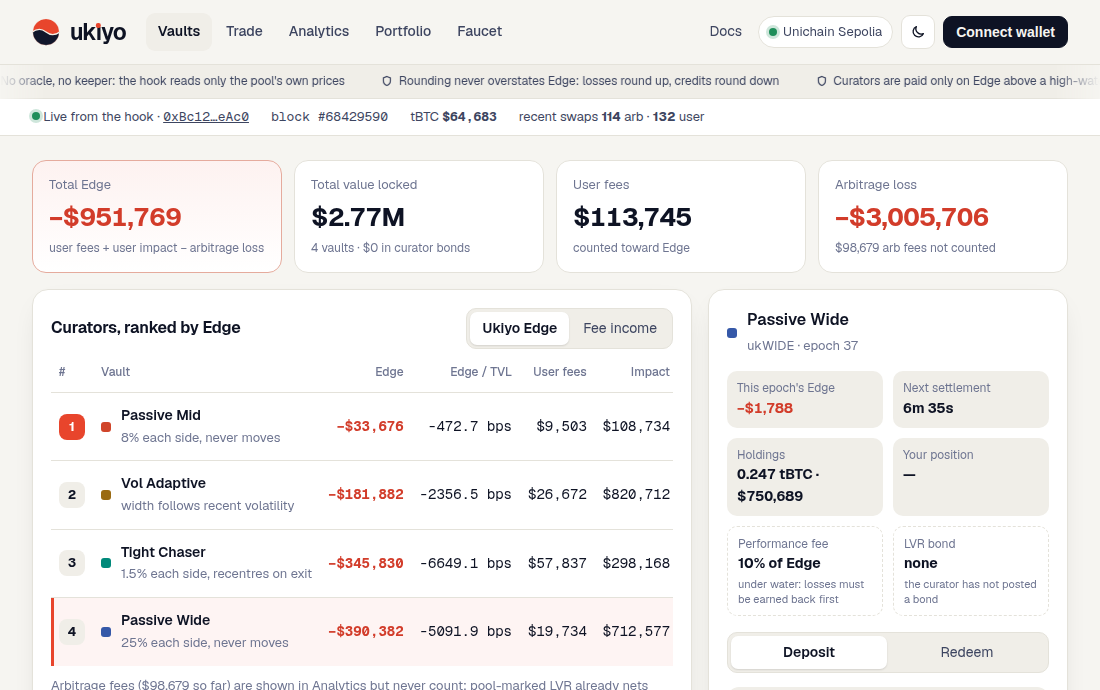
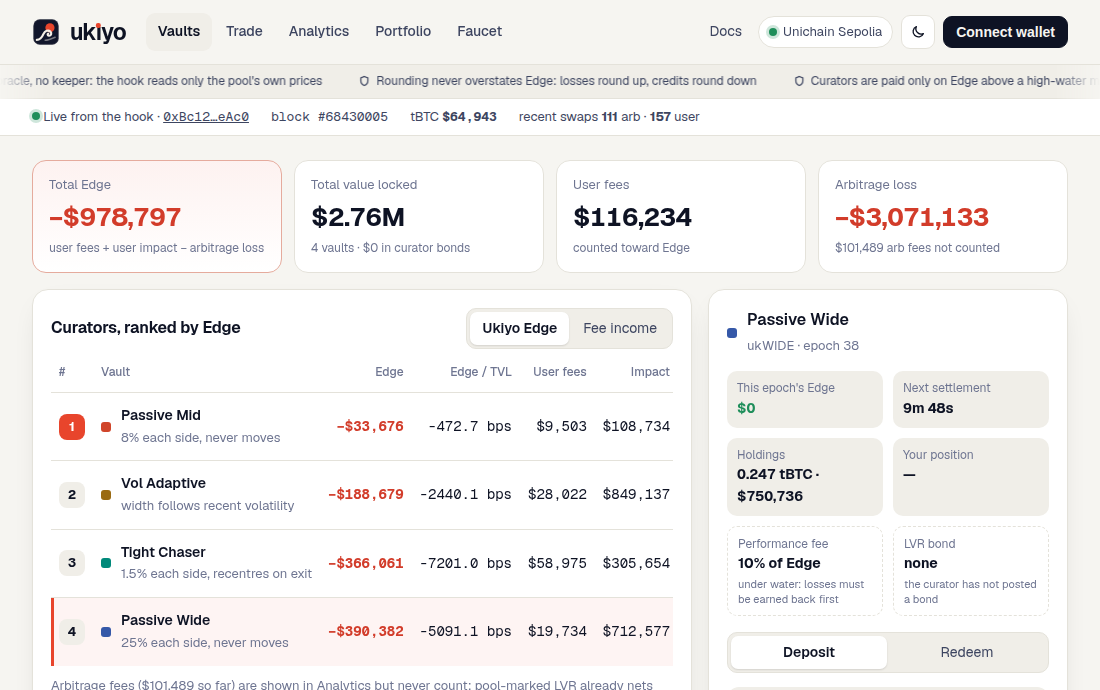
New mark: a wave whose crest curls into a hook, under the vermilion sun, on a navy tile
Defined once in web/src/lib/logo.ts and generated into the favicon and the README logo; the hero draws the same sun
and wave at scale as a fine-line print. Social card and README screenshots retaken.

diff --git a/web/src/lib/logo.ts b/web/src/lib/logo.ts
@@ -1,29 +1,32 @@
 /**
- * The Ukiyo mark, defined once. One wave (a price path) cuts a coin into the vermilion sun of the floating world and a
- * navy sea, with a cream crest on the cut and a hairline cream rim. The colours are fixed, never themed: the rim and
- * crest are what keep it legible on dark backgrounds, so the mark is identical in the nav, the favicon, the README and
- * the social card. `web/test/logo.test.mts` checks the static SVG files against these values.
+ * The Ukiyo mark, defined once: a navy tile, the vermilion sun of the floating world, and a cream ukiyo-e wave whose
+ * crest curls into a hook (this is a Uniswap v4 hook). A faint second swell is the sea. Colours are fixed, never
+ * themed, and a hairline cream rim keeps the tile's edge visible on dark backgrounds, so the mark is identical in the
+ * nav, the favicon, the README and the social card. `web/test/logo.test.mts` checks the static SVG files against it.
  */
 export const LOGO = {
+  tile: "#11162B",
   sun: "#E8452C",
-  sea: "#11162B",
   cream: "#F4EFE6",
-  /** The wave on a 64×64 canvas; the sea is this path closed along the bottom edge. */
-  wave: "M-2 34 C10 24 22 24 32 32 C42 40 54 40 66 30",
+  /** The sun, on a 64×64 canvas. */
+  sunAt: { cx: 41, cy: 22.5, r: 10.5 },
+  /** The wave: rises from the bottom left and curls over into a hook. Stroked, not filled. */
+  wave: "M11 50 C19 50 23 44 26 37 C29.5 29 37 26.5 42 31 C46 35 43.5 41 38.5 40.5 C35.5 40.2 35 37 37 35.8",
+  /** The sea behind it. */
+  swell: "M30 51 C36 51 42 49 53 44",
 } as const;
 
 /** The mark as a standalone SVG document, the source of `assets/logo.svg` and `web/src/app/icon.svg`. */
 export function logoSvg(): string {
+  const { cx, cy, r } = LOGO.sunAt;
   return `<svg xmlns="http://www.w3.org/2000/svg" viewBox="0 0 64 64" role="img" aria-label="Ukiyo">
   <title>Ukiyo</title>
   <!-- Generated from web/src/lib/logo.ts (npm run logo). Edit there, not here. -->
-  <defs><clipPath id="ukiyo-coin"><circle cx="32" cy="32" r="30"/></clipPath></defs>
-  <g clip-path="url(#ukiyo-coin)">
-    <rect width="64" height="64" fill="${LOGO.sun}"/>
-    <path d="${LOGO.wave} V66 H-2Z" fill="${LOGO.sea}"/>
-    <path d="${LOGO.wave}" fill="none" stroke="${LOGO.cream}" stroke-width="3" stroke-linecap="round"/>
-  </g>
-  <circle cx="32" cy="32" r="30.5" fill="none" stroke="${LOGO.cream}" stroke-opacity="0.55" stroke-width="1.5"/>
+  <rect x="3" y="3" width="58" height="58" rx="15" fill="${LOGO.tile}"/>
+  <rect x="3.75" y="3.75" width="56.5" height="56.5" rx="14.25" fill="none" stroke="${LOGO.cream}" stroke-opacity="0.18" stroke-width="1.5"/>
+  <circle cx="${cx}" cy="${cy}" r="${r}" fill="${LOGO.sun}"/>
+  <path d="${LOGO.swell}" fill="none" stroke="${LOGO.cream}" stroke-opacity="0.45" stroke-width="3.2" stroke-linecap="round"/>
+  <path d="${LOGO.wave}" fill="none" stroke="${LOGO.cream}" stroke-width="5" stroke-linecap="round" stroke-linejoin="round"/>
 </svg>
 `;
 }

diff --git a/web/src/components/landing/HeroSun.tsx b/web/src/components/landing/HeroSun.tsx
@@ -1,34 +1,28 @@
 import { LOGO } from "@/lib/logo";
 
 /**
- * The hero's art is the mark itself at scale: the same sun, wave and crest as `<Logo>`, with two faint swells in the sea
- * so the large version has texture the 16 px favicon does not need.
+ * The hero's art is the mark itself at scale, drawn like a woodblock print: the same sun and the same hook-curled wave
+ * as `<Logo>`, but in fine lines, with two echoes of the wave behind it the way ukiyo-e prints draw water.
  */
 export function HeroSun() {
+  const { cx, cy, r } = LOGO.sunAt;
   return (
-    <svg className="hero-sun" viewBox="0 0 64 64" aria-hidden>
+    <svg className="hero-sun" viewBox="4 8 58 50" aria-hidden>
       <defs>
-        <radialGradient id="hs-sun" cx="40%" cy="22%" r="80%">
-          <stop offset="0" stopColor="#FF9064" />
-          <stop offset="0.5" stopColor={LOGO.sun} />
-          <stop offset="1" stopColor="#B8321F" />
-        </radialGradient>
-        <linearGradient id="hs-sea" x1="0" y1="0" x2="0" y2="1">
-          <stop offset="0.45" stopColor={LOGO.sea} />
-          <stop offset="1" stopColor="#0B0F1C" />
+        <linearGradient id="hs-sun" x1="0" y1="0" x2="0" y2="1">
+          <stop offset="0" stopColor="#F25A3B" />
+          <stop offset="1" stopColor="#D93D25" />
         </linearGradient>
-        <clipPath id="hs-coin">
-          <circle cx="32" cy="32" r="30" />
-        </clipPath>
       </defs>
-      <g clipPath="url(#hs-coin)">
-        <rect width="64" height="64" fill="url(#hs-sun)" />
-        <path d={`${LOGO.wave} V66 H-2Z`} fill="url(#hs-sea)" />
-        <path d="M-2 44 C10 37 22 37 32 42 C42 47 54 47 66 40" fill="none" stroke={LOGO.cream} strokeOpacity="0.14" strokeWidth="0.6" />
-        <path d="M-2 53 C10 47 22 47 32 51 C42 55 54 55 66 49" fill="none" stroke={LOGO.cream} strokeOpacity="0.08" strokeWidth="0.6" />
-        <path d={LOGO.wave} fill="none" stroke={LOGO.cream} strokeWidth="1.1" strokeLinecap="round" />
-      </g>
-      <circle cx="32" cy="32" r="30.3" fill="none" stroke={LOGO.cream} strokeOpacity="0.25" strokeWidth="0.35" />
+      <circle cx={cx} cy={cy} r={r} fill="url(#hs-sun)" />
+      {[
+        [6, 0.12],
+        [3, 0.3],
+      ].map(([d, o]) => (
+        <path key={d} d={LOGO.wave} transform={`translate(${d} ${d})`} fill="none" stroke={LOGO.cream} strokeOpacity={o} strokeWidth="0.7" strokeLinecap="round" />
+      ))}
+      <path d={LOGO.swell} transform="translate(0 2)" fill="none" stroke={LOGO.cream} strokeOpacity="0.3" strokeWidth="0.7" strokeLinecap="round" />
+      <path d={LOGO.wave} fill="none" stroke={LOGO.cream} strokeWidth="1.6" strokeLinecap="round" strokeLinejoin="round" />
     </svg>
   );
 }

diff --git a/web/src/components/Logo.tsx b/web/src/components/Logo.tsx
@@ -1,25 +1,18 @@
-import { useId } from "react";
 import { LOGO } from "@/lib/logo";
 
 /**
- * The Ukiyo mark: one wave (a price path) splits a coin into the vermilion sun of the floating world and the sea.
- * Fixed colours from `lib/logo.ts`, so it is the same mark on every page, in both themes, and in the static files.
+ * The Ukiyo mark: a navy tile, the vermilion sun, and a wave whose crest curls into a hook. Fixed colours from
+ * `lib/logo.ts`, so it is the same mark on every page, in both themes, and in the static files.
  */
 export function Logo({ size = 32, title = "Ukiyo" }: { size?: number; title?: string }) {
-  const clip = useId();
+  const { cx, cy, r } = LOGO.sunAt;
   return (
     <svg width={size} height={size} viewBox="0 0 64 64" role="img" aria-label={title}>
-      <defs>
-        <clipPath id={clip}>
-          <circle cx="32" cy="32" r="30" />
-        </clipPath>
-      </defs>
-      <g clipPath={`url(#${clip})`}>
-        <rect width="64" height="64" fill={LOGO.sun} />
-        <path d={`${LOGO.wave} V66 H-2Z`} fill={LOGO.sea} />
-        <path d={LOGO.wave} fill="none" stroke={LOGO.cream} strokeWidth="3" strokeLinecap="round" />
-      </g>
-      <circle cx="32" cy="32" r="30.5" fill="none" stroke={LOGO.cream} strokeOpacity="0.55" strokeWidth="1.5" />
+      <rect x="3" y="3" width="58" height="58" rx="15" fill={LOGO.tile} />
+      <rect x="3.75" y="3.75" width="56.5" height="56.5" rx="14.25" fill="none" stroke={LOGO.cream} strokeOpacity="0.18" strokeWidth="1.5" />
+      <circle cx={cx} cy={cy} r={r} fill={LOGO.sun} />
+      <path d={LOGO.swell} fill="none" stroke={LOGO.cream} strokeOpacity="0.45" strokeWidth="3.2" strokeLinecap="round" />
+      <path d={LOGO.wave} fill="none" stroke={LOGO.cream} strokeWidth="5" strokeLinecap="round" strokeLinejoin="round" />
     </svg>
   );
 }

diff --git a/web/src/components/landing/landing.css b/web/src/components/landing/landing.css
@@ -804,12 +804,12 @@
 }
 
 .l-hero {
-  --sun: min(640px, 128vw);
+  --sun: min(420px, 92vw);
   position: relative;
   overflow: hidden;
   text-align: center;
   color: #eef0f8;
-  padding: clamp(80px, 12vh, 128px) 0 calc(var(--sun) * 0.66 + 40px);
+  padding: clamp(72px, 11vh, 120px) 0 calc(var(--sun) * 0.86 + 24px);
   background:
     radial-gradient(60% 55% at 50% 100%, rgba(232, 69, 44, 0.22), transparent 70%),
     linear-gradient(180deg, #090c16 0%, #0d1224 70%, #11162b 100%);
@@ -858,15 +858,15 @@
   margin-top: 34px;
 }
 
-/* the mark itself, rising: the sun, the whole crest of the wave and the first of the sea */
+/* the mark itself at scale: the sun and the wave curling into a hook */
 .hero-sun {
   position: absolute;
   left: 50%;
-  bottom: calc(var(--sun) * -0.34);
+  bottom: 0;
   width: var(--sun);
-  height: var(--sun);
+  height: calc(var(--sun) * 50 / 58);
   transform: translateX(-50%);
-  filter: drop-shadow(0 0 90px rgba(232, 69, 44, 0.4));
+  filter: drop-shadow(0 0 60px rgba(232, 69, 44, 0.3));
   pointer-events: none;
 }
 

diff --git a/README.md b/README.md
@@ -1,4 +1,4 @@
-<p align="center"><img src="assets/logo.svg" width="96" alt="Ukiyo logo: a wave splitting a coin into a vermilion sun and a navy sea"></p>
+<p align="center"><img src="assets/logo.svg" width="96" alt="Ukiyo logo: a vermilion sun and a cream wave whose crest curls into a hook, on a navy tile"></p>
 
 <h1 align="center">Ukiyo 浮世</h1>
 
